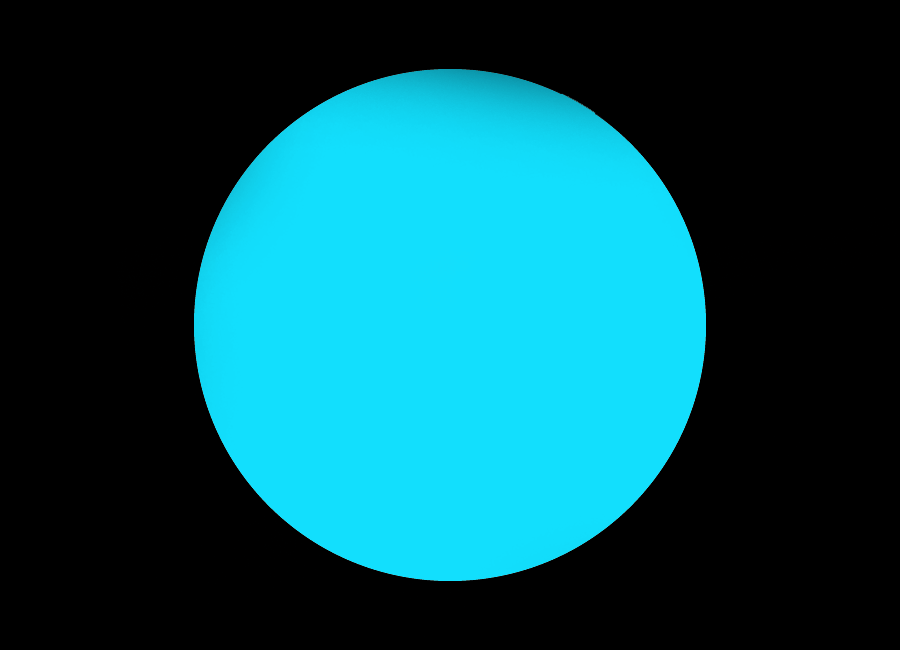
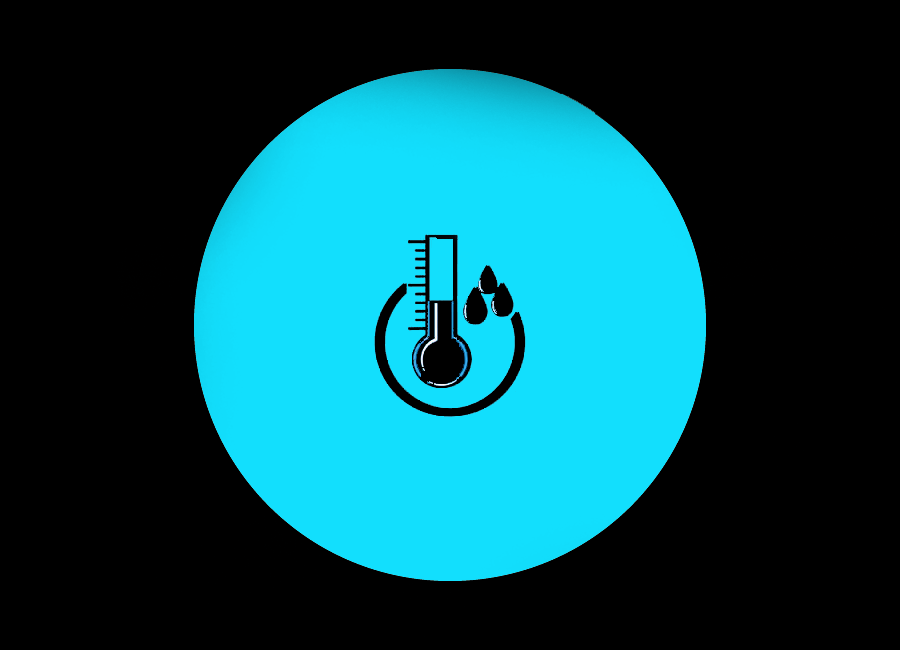
updated portfolio

Changed region(s): [[0.4044, 0.3385, 0.5911, 0.6462]]

diff --git a/index.html b/index.html
@@ -110,7 +110,7 @@
                 <div class="col-sm-4 portfolio-item">
                     <a href="#portfolioModal2" class="portfolio-link" data-toggle="modal">
                         <div class="caption">
-                            <div class="caption-content">WIRELESS PLUGIN
+                            <div class="caption-content">WIRELESS ELECTRIC PLUGIN
                                 
                             </div>
                         </div>
@@ -120,13 +120,16 @@
                 <div class="col-sm-4 portfolio-item">
                     <a href="#portfolioModal3" class="portfolio-link" data-toggle="modal">
                         <div class="caption">
-                            <div class="caption-content">
-                                <i class="fa fa-search-plus fa-3x"></i>
+                            <div class="caption-content"> IoT SENSOR SYSTEM
+                               
                             </div>
                         </div>
                         <img src="img/portfolio/circus.png" class="img-responsive" alt="">
                     </a>
                 </div>
+                
+                
+                <!--
                 <div class="col-sm-4 portfolio-item">
                     <a href="#portfolioModal4" class="portfolio-link" data-toggle="modal">
                         <div class="caption">
@@ -157,6 +160,8 @@
                         <img src="img/portfolio/submarine.png" class="img-responsive" alt="">
                     </a>
                 </div>
+                -->
+                
             </div>
         </div>
     </section>
@@ -192,6 +197,8 @@
             <div class="row">
                 <div class="col-lg-12 text-center">
                     <h2>LET'S GET STARTED</h2>
+                    <h5>This contact form is even an IoT connected form.</h5>
+                    <h5>It will sound a buzzer in our office everytime it is filled out and submitted!</h5>
                     <hr class="star-primary">
                 </div>
             </div>
@@ -399,21 +406,21 @@
                 <div class="row">
                     <div class="col-lg-8 col-lg-offset-2">
                         <div class="modal-body">
-                            <h2>Project Title</h2>
+                            <h2>Sensor System</h2>
                             <hr class="star-primary">
                             <img src="img/portfolio/circus.png" class="img-responsive img-centered" alt="">
                             <p>Use this area of the page to describe your project. The icon above is part of a free icon set by <a href="https://sellfy.com/p/8Q9P/jV3VZ/">Flat Icons</a>. On their website, you can download their free set with 16 icons, or you can purchase the entire set with 146 icons for only $12!</p>
                             <ul class="list-inline item-details">
-                                <li>Client:
-                                    <strong><a href="http://startbootstrap.com">Start Bootstrap</a>
+                                <li>Board:
+                                    <strong><a href="http://particle.io">Particle</a>
                                     </strong>
                                 </li>
                                 <li>Date:
-                                    <strong><a href="http://startbootstrap.com">April 2014</a>
+                                    <strong><a href="http://startbootstrap.com">May 2016</a>
                                     </strong>
                                 </li>
                                 <li>Service:
-                                    <strong><a href="http://startbootstrap.com">Web Development</a>
+                                    <strong><a href="http://startbootstrap.com">IoT Development</a>
                                     </strong>
                                 </li>
                             </ul>
